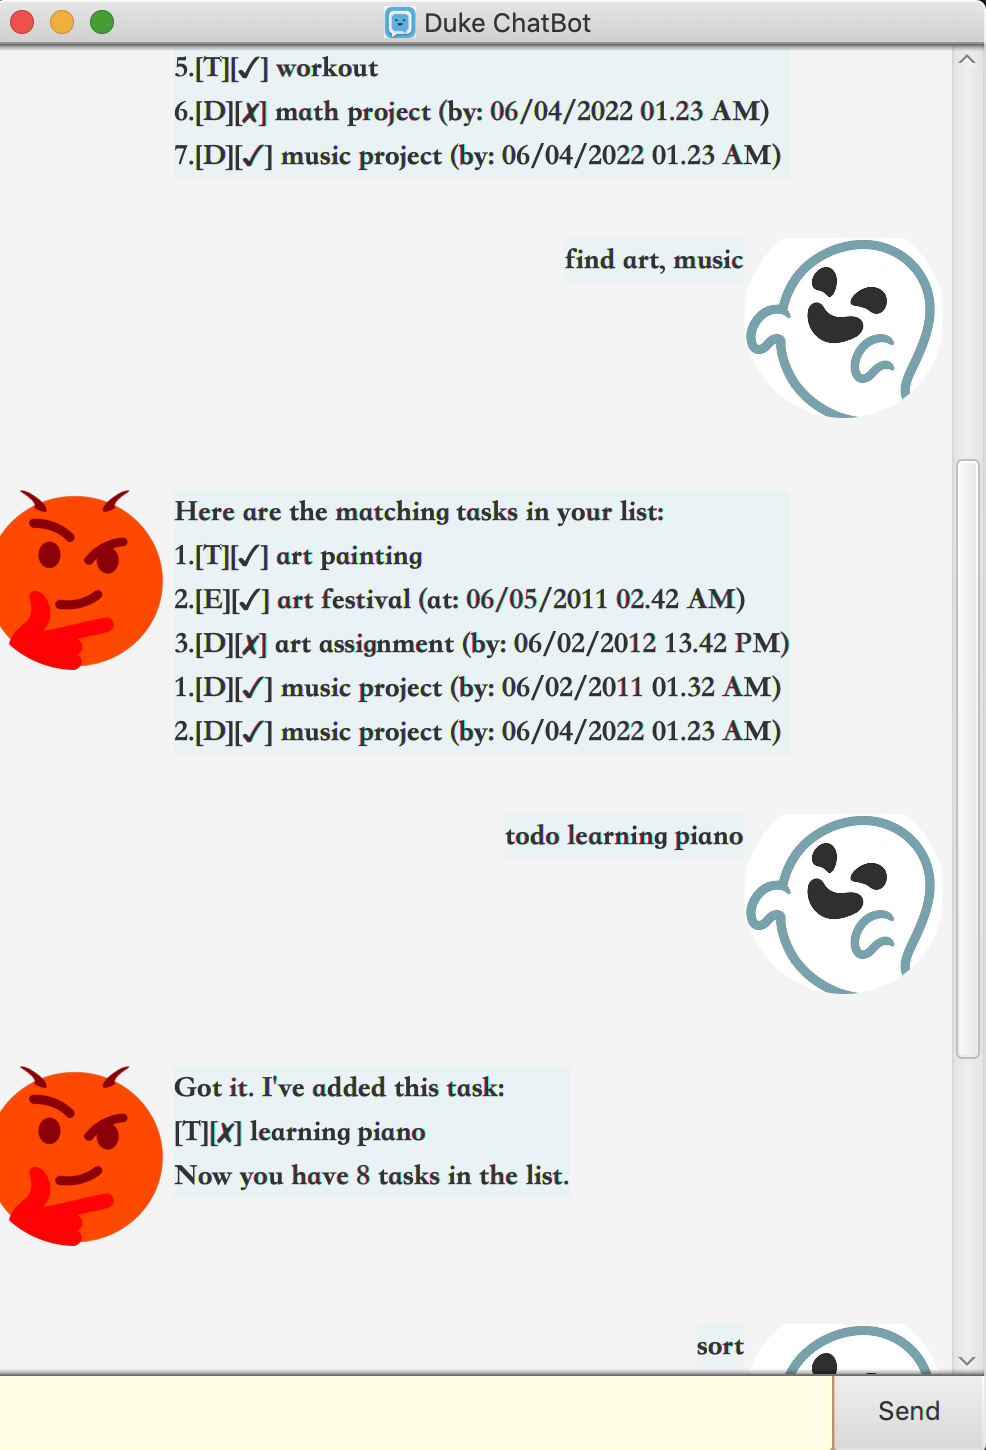
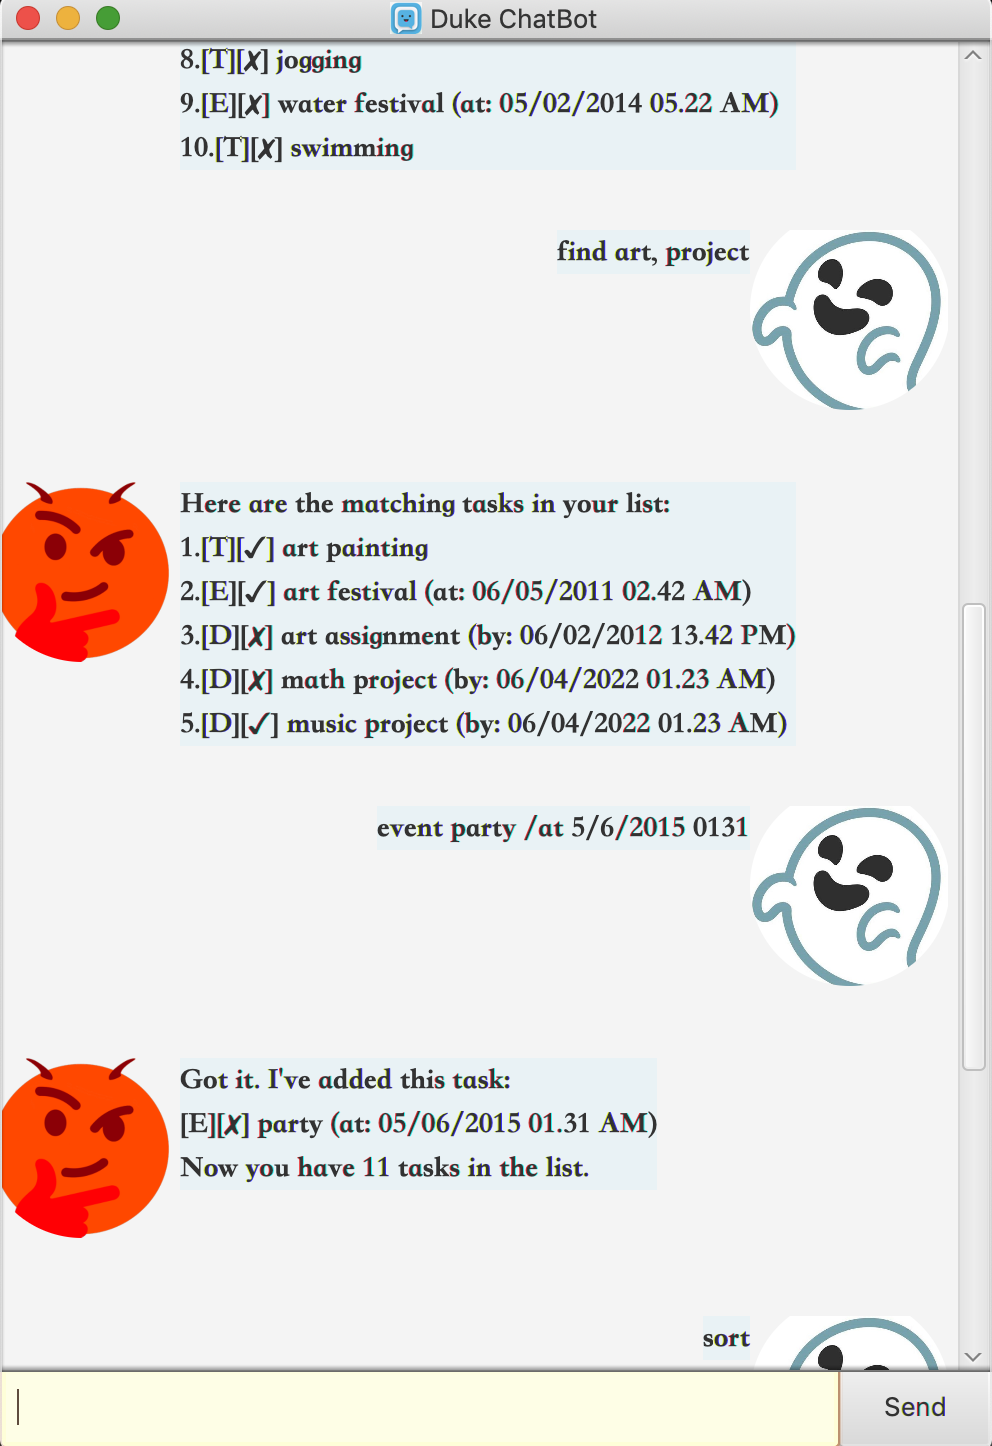
Edit user guide

diff --git a/src/main/java/seedu/duke/FindCommand.java b/src/main/java/seedu/duke/FindCommand.java
@@ -33,10 +33,11 @@ public class FindCommand extends Command {
     @Override
     public String execute(TaskList list, Ui ui, Storage storage) throws IOException {
         String output = ui.printMatchingMsg();
+        ArrayList<Task> matchingList = new ArrayList<>();
         for (Object keyword: findList) {
-            ArrayList<Task> matchingList = list.findMatching((String) keyword);
-            output += ui.printMatchingList(matchingList);
+            matchingList.addAll(list.findMatching((String) keyword));
         }
+        output += ui.printMatchingList(matchingList);
         return output;
     }
 

diff --git a/docs/README.md b/docs/README.md
@@ -230,7 +230,7 @@ Note that the file follows the following format:
  * Each variables are separated by  `|`.
  * The first letter represents the type of task. 
     Letter | Task
-    ----| ----
+    ---- | ----
     T | todo
     D | deadline
     E | event
